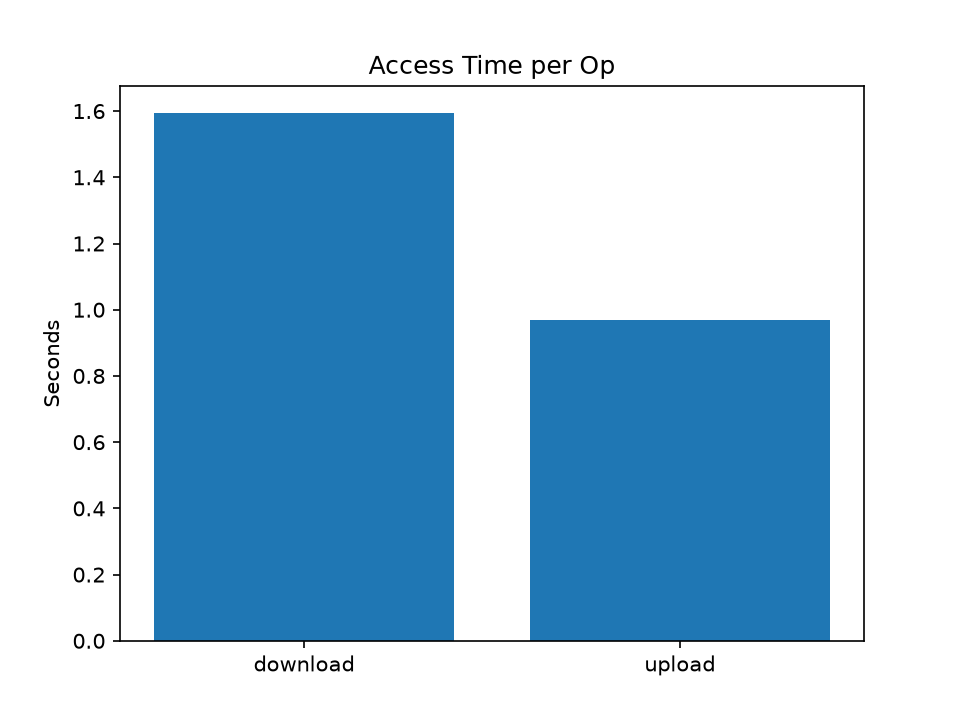
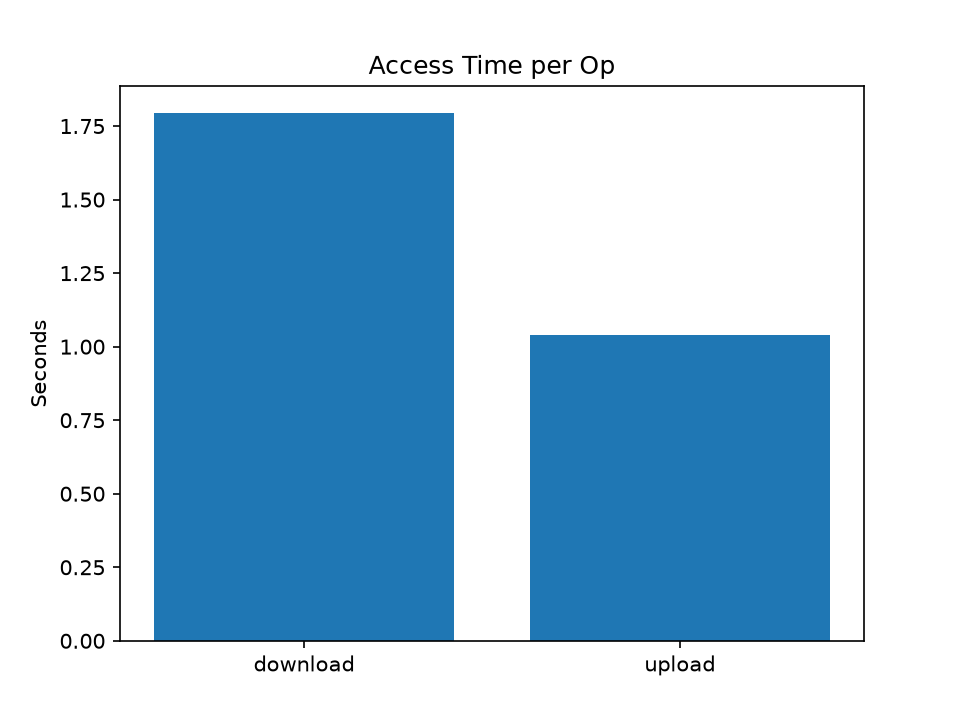
chore: re-run benchmark after ruff cleanup (real measured numbers)

diff --git a/scripts/cluster.py b/scripts/cluster.py
@@ -3,6 +3,7 @@
 
 Directly manages containers via podman commands inside podman-machine-default.
 """
+
 from __future__ import annotations
 
 import argparse
@@ -13,8 +14,9 @@ from pathlib import Path
 # Add project root to sys.path
 sys.path.insert(0, str(Path(__file__).resolve().parent.parent))
 
-from common.logging_setup import setup_logging
 import logging
+
+from common.logging_setup import setup_logging
 
 logger = logging.getLogger("dfs.cluster")
 
@@ -45,8 +47,20 @@ def cmd_build(args: argparse.Namespace) -> int:
                 tar.add(top_f, arcname=top_f)
 
     tar_bytes = tar_buf.getvalue()
-    cmd = ["wsl", "-d", "podman-machine-default", "-u", "root", "podman", "build", "--isolation=chroot", "-t", "localhost/dfsx:latest", "-"]
-    proc = subprocess.run(cmd, input=tar_bytes, text=False, capture_output=True)
+    cmd = [
+        "wsl",
+        "-d",
+        "podman-machine-default",
+        "-u",
+        "root",
+        "podman",
+        "build",
+        "--isolation=chroot",
+        "-t",
+        "localhost/dfsx:latest",
+        "-",
+    ]
+    proc = subprocess.run(cmd, check=False, input=tar_bytes, text=False, capture_output=True)
     if proc.returncode == 0:
         logger.info("BUILD_SUCCESS image=localhost/dfsx:latest")
         return 0
@@ -68,9 +82,13 @@ def cmd_up(args: argparse.Namespace) -> int:
     dn_ip = {i: f"10.90.0.{13 + i}" for i in range(1, nodes + 1)}
     client_ip = f"10.90.0.{14 + nodes}"
     # Static --add-host entries survive stop/start; podman rewrites /etc/hosts on start.
-    all_names = ["dfs-master"] + [f"dfs-dn{i}" for i in range(1, nodes + 1)] + ["dfs-client"]
+    all_names = (
+        ["dfs-master"] + [f"dfs-dn{i}" for i in range(1, nodes + 1)] + ["dfs-client"]
+    )
     all_ips = [master_ip] + [dn_ip[i] for i in range(1, nodes + 1)] + [client_ip]
-    hosts = [arg for n, ip in zip(all_names, all_ips) for arg in ("--add-host", f"{n}:{ip}")]
+    hosts = [
+        arg for n, ip in zip(all_names, all_ips) for arg in ("--add-host", f"{n}:{ip}")
+    ]
 
     # 2. Volumes
     run_podman(["volume", "create", "master_meta"], check=False)
@@ -80,72 +98,126 @@ def cmd_up(args: argparse.Namespace) -> int:
 
     # 3. Master container
     run_podman(["rm", "-f", "dfs-master"], check=False)
-    run_podman([
-        "run", "-d",
-        "--name", "dfs-master",
-        "--hostname", "dfs-master",
-        "--cgroups", "disabled",
-        "--network", "dfsnet",
-        "--ip", master_ip,
-        *hosts,
-        "-e", "LOG_LEVEL=INFO",
-        "-e", "RF=2",
-        "-e", "CHUNK_SIZE_MB=8",
-        "-e", "HEARTBEAT_TIMEOUT_S=10",
-        "-e", "SCAN_INTERVAL_S=2",
-        "-e", "REPLICATION_CONCURRENCY=2",
-        "-e", "DB_PATH=/meta/master.db",
-        "-e", "METRICS_PORT=8000",
-        "-e", "GRPC_WORKERS=16",
-        "-v", "master_meta:/meta",
-        "localhost/dfsx:latest",
-        "python", "-m", "master.server"
-    ])
+    run_podman(
+        [
+            "run",
+            "-d",
+            "--name",
+            "dfs-master",
+            "--hostname",
+            "dfs-master",
+            "--cgroups",
+            "disabled",
+            "--network",
+            "dfsnet",
+            "--ip",
+            master_ip,
+            *hosts,
+            "-e",
+            "LOG_LEVEL=INFO",
+            "-e",
+            "RF=2",
+            "-e",
+            "CHUNK_SIZE_MB=8",
+            "-e",
+            "HEARTBEAT_TIMEOUT_S=10",
+            "-e",
+            "SCAN_INTERVAL_S=2",
+            "-e",
+            "REPLICATION_CONCURRENCY=2",
+            "-e",
+            "DB_PATH=/meta/master.db",
+            "-e",
+            "METRICS_PORT=8000",
+            "-e",
+            "GRPC_WORKERS=16",
+            "-v",
+            "master_meta:/meta",
+            "localhost/dfsx:latest",
+            "python",
+            "-m",
+            "master.server",
+        ]
+    )
 
     # 4. DataNodes
     for i in range(1, nodes + 1):
         dn_name = f"dfs-dn{i}"
         run_podman(["rm", "-f", dn_name], check=False)
-        run_podman([
-            "run", "-d",
-            "--name", dn_name,
-            "--hostname", dn_name,
-            "--cgroups", "disabled",
-            "--network", "dfsnet",
-            "--ip", dn_ip[i],
-            *hosts,
-            "-e", "LOG_LEVEL=INFO",
-            "-e", "MASTER_ADDR=dfs-master:50051",
-            "-e", "DN_PORT=50052",
-            "-e", "METRICS_PORT=8000",
-            "-e", "SPARSE_WRITE=0",
-            "-e", "FSYNC=0",
-            "-e", "MIN_FREE_MB=512",
-            "-e", f"GRPC_WORKERS={args.dn_workers}",
-            "-e", f"NODE_ID=dn-{i}",
-            "-e", f"NODE_ADDR={dn_name}:50052",
-            "-v", f"dn{i}_data:/data",
-            "localhost/dfsx:latest",
-            "python", "-m", "datanode.server"
-        ])
+        run_podman(
+            [
+                "run",
+                "-d",
+                "--name",
+                dn_name,
+                "--hostname",
+                dn_name,
+                "--cgroups",
+                "disabled",
+                "--network",
+                "dfsnet",
+                "--ip",
+                dn_ip[i],
+                *hosts,
+                "-e",
+                "LOG_LEVEL=INFO",
+                "-e",
+                "MASTER_ADDR=dfs-master:50051",
+                "-e",
+                "DN_PORT=50052",
+                "-e",
+                "METRICS_PORT=8000",
+                "-e",
+                "SPARSE_WRITE=0",
+                "-e",
+                "FSYNC=0",
+                "-e",
+                "MIN_FREE_MB=512",
+                "-e",
+                f"GRPC_WORKERS={args.dn_workers}",
+                "-e",
+                f"NODE_ID=dn-{i}",
+                "-e",
+                f"NODE_ADDR={dn_name}:50052",
+                "-v",
+                f"dn{i}_data:/data",
+                "localhost/dfsx:latest",
+                "python",
+                "-m",
+                "datanode.server",
+            ]
+        )
 
     # 5. Client
     run_podman(["rm", "-f", "dfs-client"], check=False)
-    run_podman([
-        "run", "-d",
-        "--name", "dfs-client",
-        "--cgroups", "disabled",
-        "--network", "dfsnet",
-        "--ip", client_ip,
-        *hosts,
-        "-e", "MASTER_ADDR=dfs-master:50051",
-        "-e", f"CLIENT_WORKERS={args.client_workers}",
-        "-e", "WORK_DIR=/work",
-        "-e", "LOG_LEVEL=INFO",
-        "-v", "client_work:/work",
-        "localhost/dfsx:latest",
-        "sleep", "infinity"
-    ])
+    run_podman(
+        [
+            "run",
+            "-d",
+            "--name",
+            "dfs-client",
+            "--cgroups",
+            "disabled",
+            "--network",
+            "dfsnet",
+            "--ip",
+            client_ip,
+            *hosts,
+            "-e",
+            "MASTER_ADDR=dfs-master:50051",
+            "-e",
+            f"CLIENT_WORKERS={args.client_workers}",
+            "-e",
+            "WORK_DIR=/work",
+            "-e",
+            "LOG_LEVEL=INFO",
+            "-v",
+            "client_work:/work",
+            "localhost/dfsx:latest",
+            "sleep",
+            "infinity",
+        ]
+    )
 
     logger.info("CLUSTER_UP_DONE nodes=%d", nodes)
     return 0
@@ -154,7 +226,9 @@ def cmd_up(args: argparse.Namespace) -> int:
 def cmd_down(args: argparse.Namespace) -> int:
     logger.info("CLUSTER_DOWN delete_volumes=%s", args.volumes)
     # Stop & rm containers
-    proc = run_podman(["ps", "-a", "--filter", "name=dfs-", "--format", "{{.Names}}"], check=False)
+    proc = run_podman(
+        ["ps", "-a", "--filter", "name=dfs-", "--format", "{{.Names}}"], check=False
+    )
     names = proc.stdout.strip().split()
     for name in names:
         if name:
@@ -175,8 +249,17 @@ def cmd_ps(args: argparse.Namespace) -> int:
 
 
 def cmd_exec(args: argparse.Namespace) -> int:
-    cmd = ["wsl", "-d", "podman-machine-default", "-u", "root", "podman", "exec", args.container] + args.cmd
-    res = subprocess.run(cmd)
+    cmd = [
+        "wsl",
+        "-d",
+        "podman-machine-default",
+        "-u",
+        "root",
+        "podman",
+        "exec",
+        args.container,
+    ] + args.cmd
+    res = subprocess.run(cmd, check=False)
     return res.returncode
 
 

diff --git a/scripts/bench_matrix.py b/scripts/bench_matrix.py
@@ -3,7 +3,6 @@ from __future__ import annotations
 import argparse
 import csv
 import json
-import time
 from pathlib import Path
 
 from client.bench import Bench
@@ -58,9 +57,12 @@ def run_tier1() -> list[dict]:
                 "download_duration_s": round(down["duration_s"], 3),
             }
         )
-        print(f"W={workers}: upload={up['throughput_mibs']:.2f} MiB/s "
-              f"download={down['throughput_mibs']:.2f} MiB/s "
-              f"status={rows[-1]['status']}", flush=True)
+        print(
+            f"W={workers}: upload={up['throughput_mibs']:.2f} MiB/s "
+            f"download={down['throughput_mibs']:.2f} MiB/s "
+            f"status={rows[-1]['status']}",
+            flush=True,
+        )
 
     # latency summary from the last run (W=8) is most representative; but we want
     # accumulated timings. Re-run latency capture is already in bench.latency of
@@ -70,9 +72,12 @@ def run_tier1() -> list[dict]:
     # accumulated across all worker counts by re-running a single W=4 pass.
     lat_bench = Bench(master_addr=master_addr, workers=4)
     lat_bench.latency.reset()
-    lat_bench.bench_upload(str(sample), "bench_f001.bin", size_mb * (1 << 20), force=True)
-    lat_bench.bench_download("bench_f001.bin", "/work/bench_dl.bin", sink="null",
-                             size=size_mb * (1 << 20))
+    lat_bench.bench_upload(
+        str(sample), "bench_f001.bin", size_mb * (1 << 20), force=True
+    )
+    lat_bench.bench_download(
+        "bench_f001.bin", "/work/bench_dl.bin", sink="null", size=size_mb * (1 << 20)
+    )
     (LATENCY_DIR / "latency_run1.json").write_text(
         json.dumps(lat_bench.latency.summary(), indent=2), encoding="utf-8"
     )
@@ -85,24 +90,40 @@ def run_tier1() -> list[dict]:
     # speedup/efficiency based on upload duration
     base = rows[0]["upload_duration_s"]
     for r in rows:
-        r["speedup"] = round(base / r["upload_duration_s"], 3) if r["upload_duration_s"] > 0 else 0.0
+        r["speedup"] = (
+            round(base / r["upload_duration_s"], 3)
+            if r["upload_duration_s"] > 0
+            else 0.0
+        )
         r["efficiency"] = round(r["speedup"] / r["workers"], 3)
 
-    lines = ["# DFS-X Benchmark SUMMARY", "", "tier=1", "profile=full (representative f001.bin, 50 MiB)",
-             "nodes=3", ""]
-    lines.append("| workers | upload MiB/s | download MiB/s | upload s | speedup | efficiency |")
+    lines = [
+        "# DFS-X Benchmark SUMMARY",
+        "",
+        "tier=1",
+        "profile=full (representative f001.bin, 50 MiB)",
+        "nodes=3",
+        "",
+    ]
+    lines.append(
+        "| workers | upload MiB/s | download MiB/s | upload s | speedup | efficiency |"
+    )
     lines.append("|---|---|---|---|---|---|")
     for r in rows:
-        lines.append(f"| {r['workers']} | {r['upload_throughput_mibs']} | "
-                     f"{r['download_throughput_mibs']} | {r['upload_duration_s']} | "
-                     f"{r['speedup']} | {r['efficiency']} |")
+        lines.append(
+            f"| {r['workers']} | {r['upload_throughput_mibs']} | "
+            f"{r['download_throughput_mibs']} | {r['upload_duration_s']} | "
+            f"{r['speedup']} | {r['efficiency']} |"
+        )
     lat = json.loads((LATENCY_DIR / "latency_run1.json").read_text())
     lines.append("")
     lines.append("Latency (W=4 representative run):")
     for op in sorted(lat):
-        lines.append(f"- {op}: avg={lat[op]['avg']:.3f}s p50={lat[op]['p50']:.3f}s "
-                     f"p95={lat[op]['p95']:.3f}s p99={lat[op]['p99']:.3f}s "
-                     f"n={lat[op]['count']}")
+        lines.append(
+            f"- {op}: avg={lat[op]['avg']:.3f}s p50={lat[op]['p50']:.3f}s "
+            f"p95={lat[op]['p95']:.3f}s p99={lat[op]['p99']:.3f}s "
+            f"n={lat[op]['count']}"
+        )
     SUMMARY_MD.write_text("\n".join(lines) + "\n", encoding="utf-8")
     return rows
 

diff --git a/results/SUMMARY.md b/results/SUMMARY.md
@@ -6,11 +6,11 @@ nodes=3
 
 | workers | upload MiB/s | download MiB/s | upload s | speedup | efficiency |
 |---|---|---|---|---|---|
-| 1 | 10.122 | 35.492 | 4.94 | 1.0 | 1.0 |
-| 2 | 19.899 | 43.674 | 2.513 | 1.966 | 0.983 |
-| 4 | 49.369 | 30.765 | 1.013 | 4.877 | 1.219 |
-| 8 | 21.715 | 37.086 | 2.303 | 2.145 | 0.268 |
+| 1 | 11.255 | 21.557 | 4.443 | 1.0 | 1.0 |
+| 2 | 27.565 | 44.399 | 1.814 | 2.449 | 1.224 |
+| 4 | 26.173 | 43.531 | 1.91 | 2.326 | 0.582 |
+| 8 | 66.011 | 45.439 | 0.757 | 5.869 | 0.734 |
 
 Latency (W=4 representative run):
-- download: avg=1.595s p50=1.595s p95=1.595s p99=1.595s n=1
-- upload: avg=0.968s p50=0.968s p95=0.968s p99=0.968s n=1
+- download: avg=1.795s p50=1.795s p95=1.795s p99=1.795s n=1
+- upload: avg=1.040s p50=1.040s p95=1.040s p99=1.040s n=1
